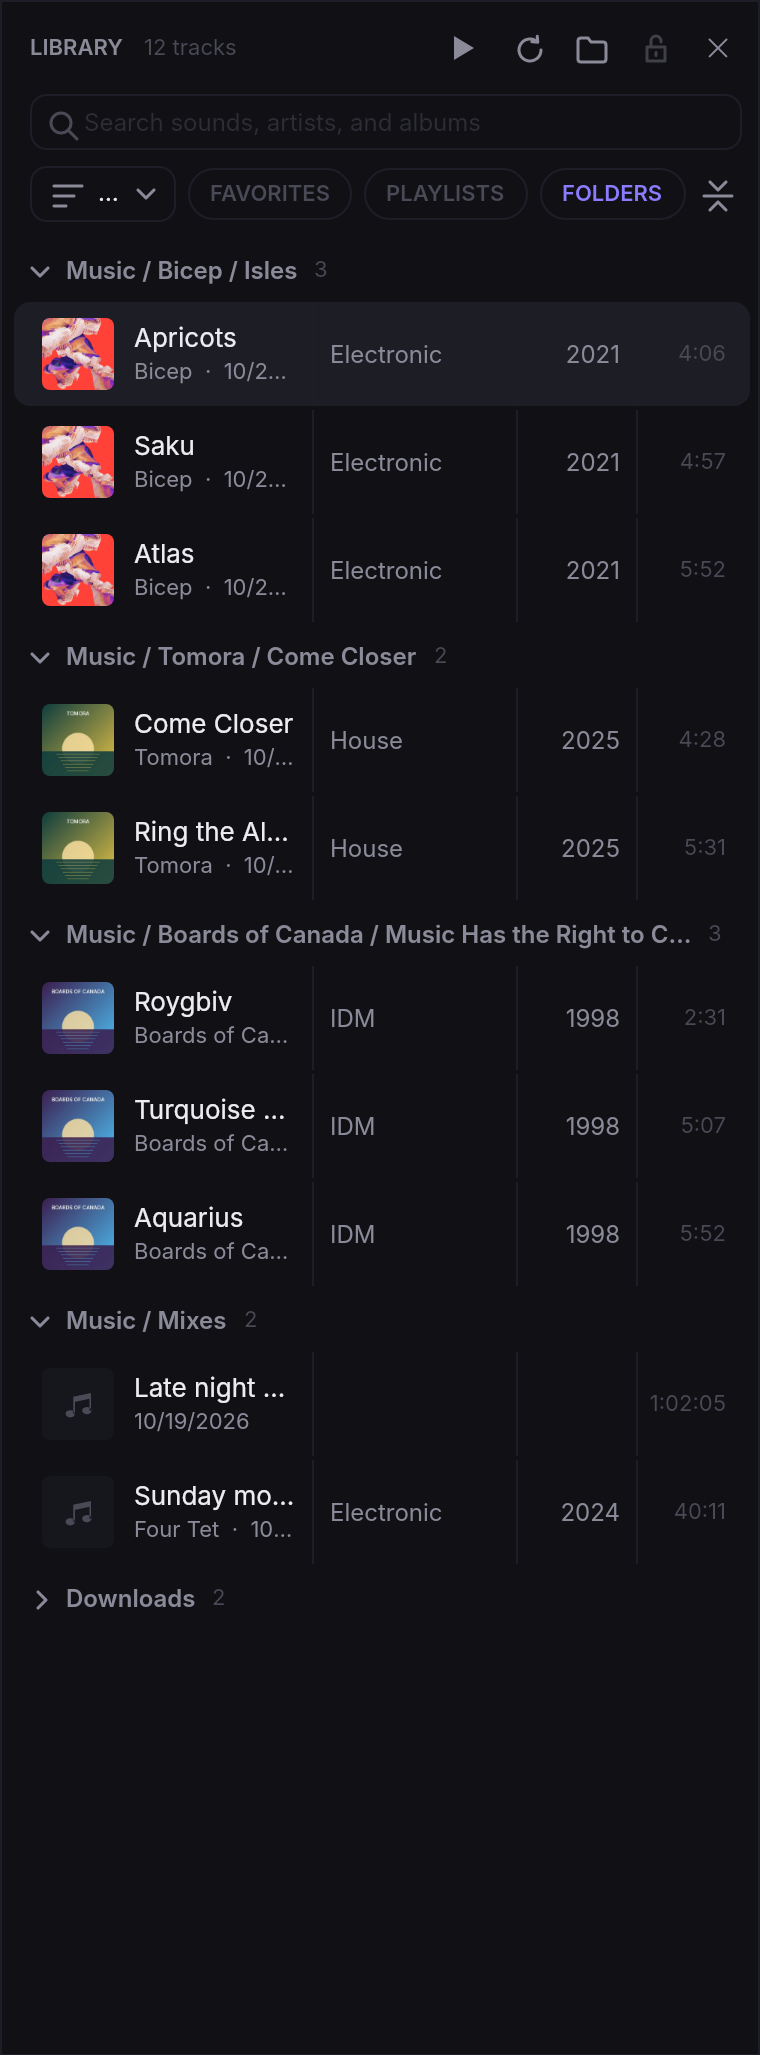
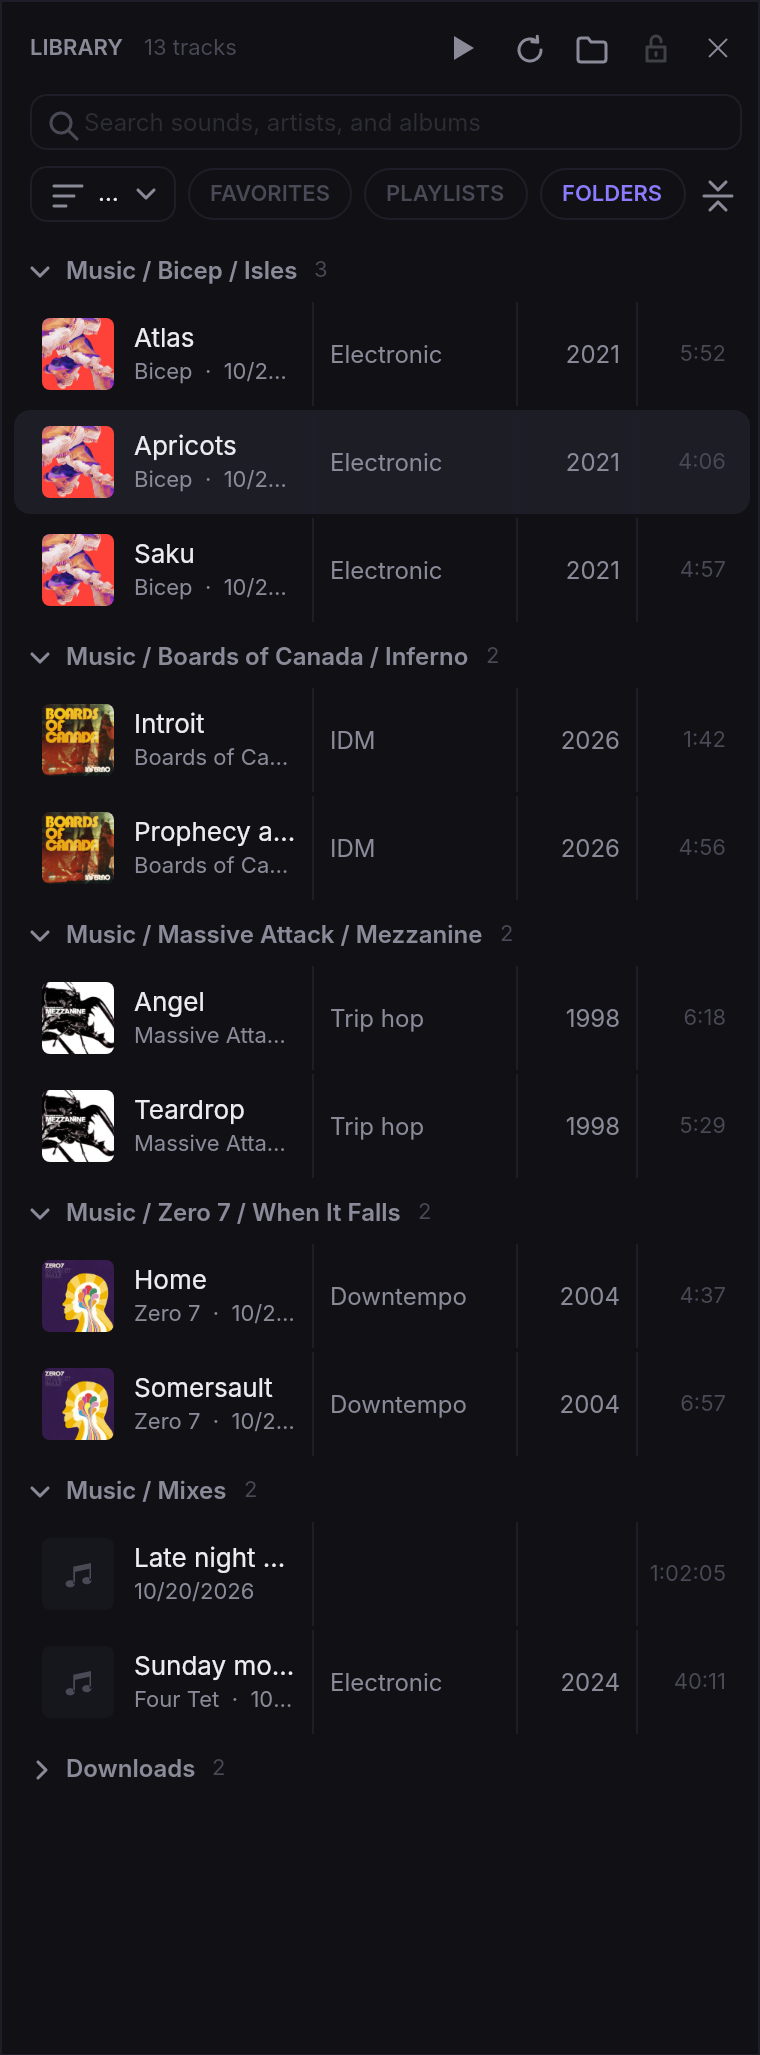
Website: real album covers in the tour's library, queue, and player preview
The headless screenshots' sample library had made-up covers for Tomora and
Boards of Canada. It's now Bicep's Isles, Boards of Canada's Inferno, Massive
Attack's Mezzanine, and Zero 7's When It Falls, each rendered with its real
cover from LUCENT_PREVIEW_COVERS. The site's animated player preview lists
the same songs.

Claude-Session: https://claude.ai/code/session_013Se1kfzcMAX8fy9y9BDZS7

diff --git a/site/index.html b/site/index.html
@@ -941,10 +941,10 @@ footer .credits a { text-decoration: underline; }
   /* ---------- the window tour at the top: Lucent full screen, a window at a time ---------- */
   // [name, file, place on a 2560 × 1440 screen (x, y, width, height, from FullScreenLayout), what it is, alt text, floats over the rest]
   const WINDOWS = [
-    ["Library", "tour/full/library.png", [0, 0, 380, 1027.5], "Your music folders, newest first, with genre, year, and any other tag in columns.", "The library, with album covers, genres, and years beside each song in folders for Bicep's Isles, Tomora's Come Closer, and Boards of Canada"],
+    ["Library", "tour/full/library.png", [0, 0, 380, 1027.5], "Your music folders, newest first, with genre, year, and any other tag in columns.", "The library, with album covers, genres, and years beside each song in folders for Bicep's Isles, Boards of Canada's Inferno, Massive Attack's Mezzanine, and Zero 7's When It Falls"],
     ["Player", "tour/full/player.png", [380, 0, 520, 207], "Bicep's Atlas in lossless, with a live level meter and one-click links to every other window.", "The player, playing Atlas by Bicep"],
     ["Equalizer", "tour/full/equalizer.png", [380, 207, 520, 391], "4 to 32 bands, with the music's live spectrum behind the faders.", "The 16-band equalizer on the Rock preset"],
-    ["Queue", "tour/full/queue.png", [380, 598, 520, 842], "What's up next. Drag to reorder, and save or load playlists.", "The queue, with album covers beside Bicep, Tomora, and Boards of Canada songs"],
+    ["Queue", "tour/full/queue.png", [380, 598, 520, 842], "What's up next. Drag to reorder, and save or load playlists.", "The queue, with album covers beside Bicep, Massive Attack, Boards of Canada, and Zero 7 songs"],
     ["Artwork", "tour/full/artwork.jpg", [0, 1027.4, 380, 412.6], "The cover of whatever's on: your files, a streaming app, or a radio station.", "The artwork window with Bicep's Isles cover"],
     ["Visuals", "tour/full/visuals.jpg", [900, 0, 1660, 840], "448 visuals drawn live on your graphics card. This one is Cosmic Jellyfish.", "The visuals window showing Cosmic Jellyfish"],
     ["Analyzer", "tour/full/analyzer.png", [900, 840, 729, 600], "A studio spectrogram, spectrum, waveform, and stereo scope, scrolling together, with LUFS loudness along the bottom.", "The analyzer, with momentary, short-term, and integrated LUFS, loudness range, and true peak along the bottom"],
@@ -1446,7 +1446,7 @@ footer .credits a { text-decoration: underline; }
       <div class="lw-row"><span class="lw-b">${I.prev}</span><span class="lw-play">${I.play}</span><span class="lw-b">${I.stop}</span><span class="lw-b">${I.next}</span><span class="lw-b">${I.eject}</span><span class="lw-b">${I.shuffle}</span><span class="lw-b">${I.repeat}</span>
         <span class="lw-links"><span>Visuals</span><span>Queue</span><span>EQ</span><span>Library</span></span></div>
     </div></div>`;
-  const SONGS = [["Atlas", "Bicep", "5:52"], ["Ring the Alarm", "Tomora", "5:31"], ["Roygbiv", "Boards of Canada", "2:31"], ["Aquarius", "Boards of Canada", "5:52"], ["Apricots", "Bicep", "4:06"]];
+  const SONGS = [["Atlas", "Bicep", "5:52"], ["Teardrop", "Massive Attack", "5:29"], ["Introit", "Boards of Canada", "1:42"], ["Home", "Zero 7", "4:37"], ["Apricots", "Bicep", "4:06"]];
   const queueWin = n => `<div class="lw">${title("Queue", `${n} tracks`)}<div class="lw-list">${SONGS.slice(0, n).map((x, i) =>
       `<div class="lw-item${i === 0 ? " on" : ""}"><b>${x[0]}</b><span>${x[1]}</span><em>${x[2]}</em></div>`).join("")}</div></div>`;
   const EQ = [.3, .26, .36, .5, .58, .55, .45, .34, .28, .24];

diff --git a/src/Lucent.Mac/Diagnostics/Screenshots.cs b/src/Lucent.Mac/Diagnostics/Screenshots.cs
@@ -157,8 +157,8 @@ public static partial class Screenshots
         player.ShowPreview(new[]
         {
             SampleTrack("Bicep", "Atlas", TimeSpan.FromSeconds(352), 1411, 44100, 2),
-            SampleTrack("Tomora", "Ring the Alarm", TimeSpan.FromSeconds(331), 1411, 44100, 2),
-            SampleTrack("Boards of Canada", "Roygbiv", TimeSpan.FromSeconds(151), 320, 44100, 2),
+            SampleTrack("Massive Attack", "Teardrop", TimeSpan.FromSeconds(329), 1411, 44100, 2),
+            SampleTrack("Boards of Canada", "Introit", TimeSpan.FromSeconds(102), 320, 44100, 2),
         }, TimeSpan.FromSeconds(83));
         return player;
     }
@@ -327,25 +327,25 @@ public static partial class Screenshots
         ("Music / Bicep / Isles", "Atlas", "Bicep", "Isles", 352, 2),
         ("Music / Bicep / Isles", "Apricots", "Bicep", "Isles", 246, 2),
         ("Music / Bicep / Isles", "Saku", "Bicep", "Isles", 297, 2),
-        ("Music / Tomora / Come Closer", "Ring the Alarm", "Tomora", "Come Closer", 331, 4),
-        ("Music / Tomora / Come Closer", "Come Closer", "Tomora", "Come Closer", 268, 4),
-        ("Music / Boards of Canada / Music Has the Right to Children", "Roygbiv", "Boards of Canada", "Music Has the Right to Children", 151, 5),
-        ("Music / Boards of Canada / Music Has the Right to Children", "Aquarius", "Boards of Canada", "Music Has the Right to Children", 352, 5),
-        ("Music / Boards of Canada / Music Has the Right to Children", "Turquoise Hexagon Sun", "Boards of Canada", "Music Has the Right to Children", 307, 5),
+        ("Music / Boards of Canada / Inferno", "Introit", "Boards of Canada", "Inferno", 102, 4),
+        ("Music / Boards of Canada / Inferno", "Prophecy at 1420 MHz", "Boards of Canada", "Inferno", 296, 4),
+        ("Music / Massive Attack / Mezzanine", "Angel", "Massive Attack", "Mezzanine", 378, 5),
+        ("Music / Massive Attack / Mezzanine", "Teardrop", "Massive Attack", "Mezzanine", 329, 5),
+        ("Music / Zero 7 / When It Falls", "Home", "Zero 7", "When It Falls", 277, 6),
+        ("Music / Zero 7 / When It Falls", "Somersault", "Zero 7", "When It Falls", 417, 6),
         ("Music / Mixes", "Late night set (live)", "", "", 3725, 9),
         ("Music / Mixes", "Sunday morning", "Four Tet", "", 2411, 12),
-        ("Downloads", "Windowlicker", "Aphex Twin", "Windowlicker", 367, 20),
-        ("Downloads", "Kid A", "Radiohead", "Kid A", 284, 21),
+        ("Downloads", "Warm Sound", "Zero 7", "When It Falls", 330, 20),
+        ("Downloads", "Risingson", "Massive Attack", "Mezzanine", 327, 21),
     };
 
     /// <summary>Made-up genre, year, BPM and key for the sample songs, by album (or title, for those with none).</summary>
     private static TrackTagValues SampleTags(string album, string title) => (album.Length > 0 ? album : title) switch
     {
         "Isles" => new TrackTagValues { Genre = "Electronic", Year = 2021, Bpm = 124, Key = "8A" },
-        "Come Closer" => new TrackTagValues { Genre = "House", Year = 2025, Bpm = 122, Key = "5A" },
-        "Music Has the Right to Children" => new TrackTagValues { Genre = "IDM", Year = 1998, Bpm = 92, Key = "11B" },
-        "Windowlicker" => new TrackTagValues { Genre = "IDM", Year = 1999, Bpm = 130, Key = "2A" },
-        "Kid A" => new TrackTagValues { Genre = "Alternative", Year = 2000, Bpm = 100, Key = "7B" },
+        "Inferno" => new TrackTagValues { Genre = "IDM", Year = 2026, Bpm = 92, Key = "11B" },
+        "Mezzanine" => new TrackTagValues { Genre = "Trip hop", Year = 1998, Bpm = 77, Key = "4A" },
+        "When It Falls" => new TrackTagValues { Genre = "Downtempo", Year = 2004, Bpm = 96, Key = "7B" },
         "Sunday morning" => new TrackTagValues { Genre = "Electronic", Year = 2024 },
         _ => TrackTagValues.None,
     };
@@ -356,11 +356,14 @@ public static partial class Screenshots
         "Atlas" => 1,
         "Apricots" => 3,
         "Saku" => 4,
-        "Ring the Alarm" => 2,
-        "Come Closer" => 1,
-        "Roygbiv" => 10,
-        "Aquarius" => 4,
-        "Turquoise Hexagon Sun" => 7,
+        "Introit" => 1,
+        "Prophecy at 1420 MHz" => 2,
+        "Angel" => 1,
+        "Risingson" => 2,
+        "Teardrop" => 3,
+        "Warm Sound" => 1,
+        "Home" => 2,
+        "Somersault" => 3,
         _ => 1,
     };
 
@@ -412,11 +415,11 @@ public static partial class Screenshots
         {
             ("Bicep/Isles", "Atlas", ".flac", 352, 1011, 30),
             ("Downloads", "Atlas", ".mp3", 353, 320, 2),
-            ("Boards of Canada/Music Has the Right to Children", "Roygbiv", ".mp3", 151, 256, 90),
-            ("Old iTunes/Boards of Canada", "Roygbiv", ".m4a", 150, 256, 400),
-            ("Old iTunes/Boards of Canada", "Roygbiv (1)", ".m4a", 150, 128, 400),
-            ("Tomora/Come Closer", "Ring the Alarm", ".flac", 331, 948, 10),
-            ("Downloads", "Ring the Alarm", ".wav", 331, 1411, 1),
+            ("Massive Attack/Mezzanine", "Teardrop", ".mp3", 329, 256, 90),
+            ("Old iTunes/Massive Attack", "Teardrop", ".m4a", 328, 256, 400),
+            ("Old iTunes/Massive Attack", "Teardrop (1)", ".m4a", 328, 128, 400),
+            ("Zero 7/When It Falls", "Home", ".flac", 277, 948, 10),
+            ("Downloads", "Home", ".wav", 277, 1411, 1),
         };
         var items = copies.Select(copy =>
         {
@@ -480,8 +483,11 @@ public static partial class Screenshots
 
     private static Window PreviewQueue()
     {
-        var tracks = SampleSongs.Take(6).Select(song => SampleTrack(song.Title + ".flac", song.Title, song.Artist, song.Album, song.Seconds)).ToList();
-        PreviewCovers(SampleSongs.Zip(tracks, (song, track) => (track.Path, song)));
+        // One from each album before the second from any, so the queue shows every cover.
+        var songs = new[] { "Atlas", "Teardrop", "Introit", "Home", "Apricots", "Angel" }
+            .Select(title => SampleSongs.First(song => song.Title == title)).ToList();
+        var tracks = songs.Select(song => SampleTrack(song.Title + ".flac", song.Title, song.Artist, song.Album, song.Seconds)).ToList();
+        PreviewCovers(songs.Zip(tracks, (song, track) => (track.Path, song)));
         var entries = new ObservableCollection<PlaylistEntry>(tracks.Select(track => new PlaylistEntry(track)));
         entries[0].IsCurrent = true;
         var queue = new QueueWindow();
